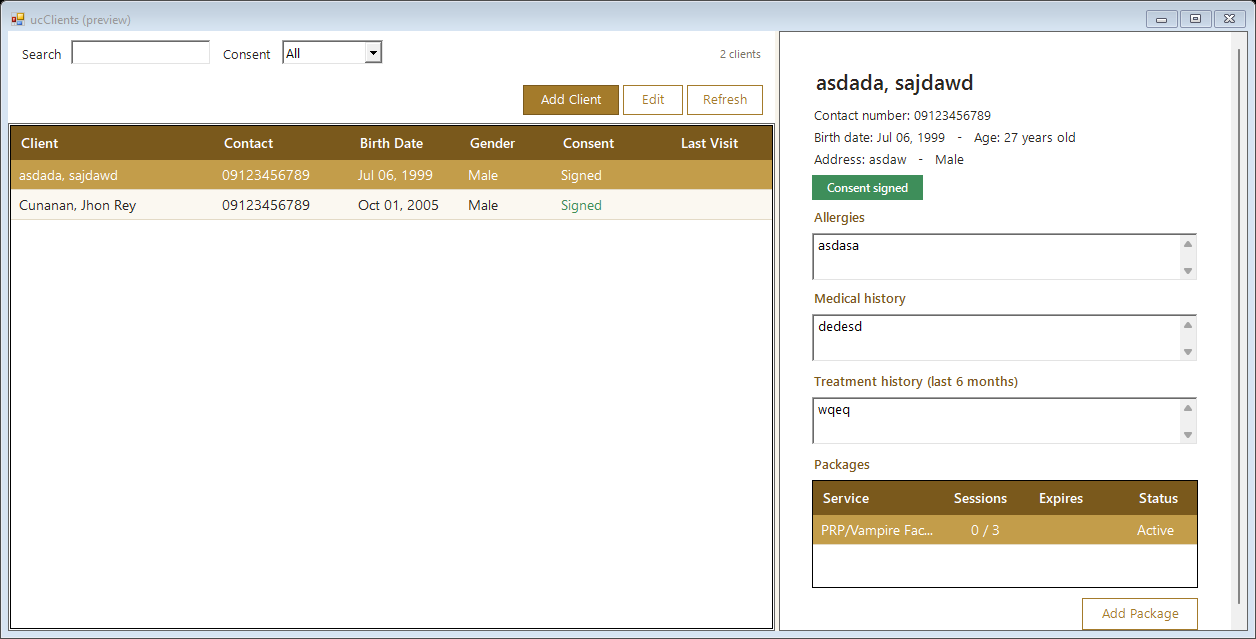
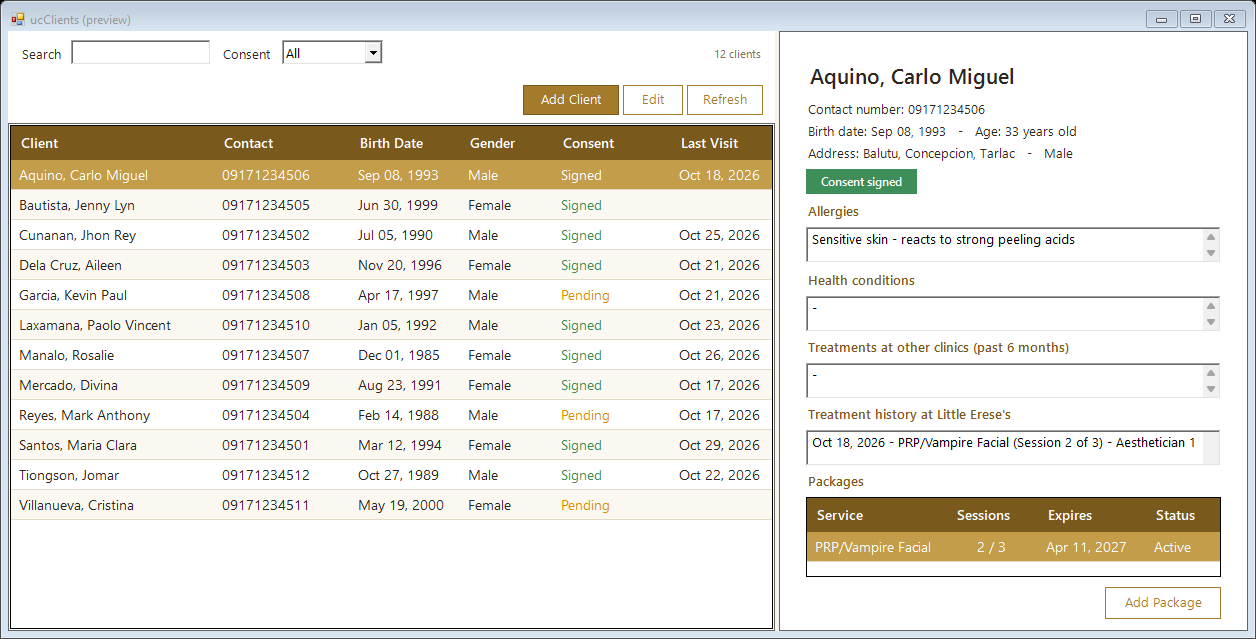
Prompt C1-3 Done

diff --git a/Controls/ucClients.Designer.cs b/Controls/ucClients.Designer.cs
@@ -70,6 +70,8 @@ namespace LittleEreseSystemV3.Controls
             this.txtDetailMedical = new System.Windows.Forms.TextBox();
             this.lblTreatmentTitle = new System.Windows.Forms.Label();
             this.txtDetailTreatment = new System.Windows.Forms.TextBox();
+            this.lblClinicHistoryTitle = new System.Windows.Forms.Label();
+            this.txtDetailClinicHistory = new System.Windows.Forms.TextBox();
             this.lblPackagesTitle = new System.Windows.Forms.Label();
             this.dgvPackages = new System.Windows.Forms.DataGridView();
             this.colPackageId = new System.Windows.Forms.DataGridViewTextBoxColumn();
@@ -441,7 +443,7 @@ namespace LittleEreseSystemV3.Controls
             this.pnlDetails.Dock = System.Windows.Forms.DockStyle.Fill;
             this.pnlDetails.Location = new System.Drawing.Point(0, 0);
             this.pnlDetails.Name = "pnlDetails";
-            this.pnlDetails.Padding = new System.Windows.Forms.Padding(16);
+            this.pnlDetails.Padding = new System.Windows.Forms.Padding(10, 10, 10, 6);
             this.pnlDetails.Size = new System.Drawing.Size(377, 640);
             this.pnlDetails.TabIndex = 0;
             // 
@@ -463,29 +465,33 @@ namespace LittleEreseSystemV3.Controls
             this.tlpDetails.Controls.Add(this.txtDetailMedical, 0, 8);
             this.tlpDetails.Controls.Add(this.lblTreatmentTitle, 0, 9);
             this.tlpDetails.Controls.Add(this.txtDetailTreatment, 0, 10);
-            this.tlpDetails.Controls.Add(this.lblPackagesTitle, 0, 11);
-            this.tlpDetails.Controls.Add(this.dgvPackages, 0, 12);
-            this.tlpDetails.Controls.Add(this.btnAddPackage, 0, 13);
+            this.tlpDetails.Controls.Add(this.lblClinicHistoryTitle, 0, 11);
+            this.tlpDetails.Controls.Add(this.txtDetailClinicHistory, 0, 12);
+            this.tlpDetails.Controls.Add(this.lblPackagesTitle, 0, 13);
+            this.tlpDetails.Controls.Add(this.dgvPackages, 0, 14);
+            this.tlpDetails.Controls.Add(this.btnAddPackage, 0, 15);
             this.tlpDetails.Dock = System.Windows.Forms.DockStyle.Top;
             this.tlpDetails.Location = new System.Drawing.Point(16, 16);
             this.tlpDetails.Name = "tlpDetails";
             this.tlpDetails.Padding = new System.Windows.Forms.Padding(16, 12, 16, 8);
-            this.tlpDetails.RowCount = 14;
+            this.tlpDetails.RowCount = 16;
             this.tlpDetails.RowStyles.Add(new System.Windows.Forms.RowStyle(System.Windows.Forms.SizeType.AutoSize));
             this.tlpDetails.RowStyles.Add(new System.Windows.Forms.RowStyle(System.Windows.Forms.SizeType.Absolute, 22F));
             this.tlpDetails.RowStyles.Add(new System.Windows.Forms.RowStyle(System.Windows.Forms.SizeType.Absolute, 22F));
             this.tlpDetails.RowStyles.Add(new System.Windows.Forms.RowStyle(System.Windows.Forms.SizeType.Absolute, 22F));
             this.tlpDetails.RowStyles.Add(new System.Windows.Forms.RowStyle(System.Windows.Forms.SizeType.Absolute, 29F));
             this.tlpDetails.RowStyles.Add(new System.Windows.Forms.RowStyle(System.Windows.Forms.SizeType.AutoSize));
-            this.tlpDetails.RowStyles.Add(new System.Windows.Forms.RowStyle(System.Windows.Forms.SizeType.Absolute, 48F));
+            this.tlpDetails.RowStyles.Add(new System.Windows.Forms.RowStyle(System.Windows.Forms.SizeType.Absolute, 36F));
             this.tlpDetails.RowStyles.Add(new System.Windows.Forms.RowStyle(System.Windows.Forms.SizeType.AutoSize));
-            this.tlpDetails.RowStyles.Add(new System.Windows.Forms.RowStyle(System.Windows.Forms.SizeType.Absolute, 48F));
+            this.tlpDetails.RowStyles.Add(new System.Windows.Forms.RowStyle(System.Windows.Forms.SizeType.Absolute, 36F));
             this.tlpDetails.RowStyles.Add(new System.Windows.Forms.RowStyle(System.Windows.Forms.SizeType.AutoSize));
-            this.tlpDetails.RowStyles.Add(new System.Windows.Forms.RowStyle(System.Windows.Forms.SizeType.Absolute, 48F));
+            this.tlpDetails.RowStyles.Add(new System.Windows.Forms.RowStyle(System.Windows.Forms.SizeType.Absolute, 36F));
             this.tlpDetails.RowStyles.Add(new System.Windows.Forms.RowStyle(System.Windows.Forms.SizeType.AutoSize));
-            this.tlpDetails.RowStyles.Add(new System.Windows.Forms.RowStyle(System.Windows.Forms.SizeType.Absolute, 108F));
+            this.tlpDetails.RowStyles.Add(new System.Windows.Forms.RowStyle(System.Windows.Forms.SizeType.Absolute, 36F));
+            this.tlpDetails.RowStyles.Add(new System.Windows.Forms.RowStyle(System.Windows.Forms.SizeType.AutoSize));
+            this.tlpDetails.RowStyles.Add(new System.Windows.Forms.RowStyle(System.Windows.Forms.SizeType.Absolute, 80F));
             this.tlpDetails.RowStyles.Add(new System.Windows.Forms.RowStyle(System.Windows.Forms.SizeType.Absolute, 44F));
-            this.tlpDetails.Size = new System.Drawing.Size(345, 563);
+            this.tlpDetails.Size = new System.Drawing.Size(345, 596);
             this.tlpDetails.TabIndex = 0;
             // 
             // lblDetailName
@@ -576,7 +582,7 @@ namespace LittleEreseSystemV3.Controls
             this.txtDetailAllergies.Name = "txtDetailAllergies";
             this.txtDetailAllergies.ReadOnly = true;
             this.txtDetailAllergies.ScrollBars = System.Windows.Forms.ScrollBars.Vertical;
-            this.txtDetailAllergies.Size = new System.Drawing.Size(313, 48);
+            this.txtDetailAllergies.Size = new System.Drawing.Size(313, 38);
             this.txtDetailAllergies.TabIndex = 6;
             // 
             // lblMedicalTitle
@@ -587,9 +593,9 @@ namespace LittleEreseSystemV3.Controls
             this.lblMedicalTitle.Location = new System.Drawing.Point(16, 228);
             this.lblMedicalTitle.Margin = new System.Windows.Forms.Padding(0, 8, 0, 2);
             this.lblMedicalTitle.Name = "lblMedicalTitle";
-            this.lblMedicalTitle.Size = new System.Drawing.Size(107, 19);
+            this.lblMedicalTitle.Size = new System.Drawing.Size(113, 19);
             this.lblMedicalTitle.TabIndex = 7;
-            this.lblMedicalTitle.Text = "Medical history";
+            this.lblMedicalTitle.Text = "Health conditions";
             // 
             // txtDetailMedical
             // 
@@ -602,7 +608,7 @@ namespace LittleEreseSystemV3.Controls
             this.txtDetailMedical.Name = "txtDetailMedical";
             this.txtDetailMedical.ReadOnly = true;
             this.txtDetailMedical.ScrollBars = System.Windows.Forms.ScrollBars.Vertical;
-            this.txtDetailMedical.Size = new System.Drawing.Size(313, 48);
+            this.txtDetailMedical.Size = new System.Drawing.Size(313, 38);
             this.txtDetailMedical.TabIndex = 8;
             // 
             // lblTreatmentTitle
@@ -611,11 +617,11 @@ namespace LittleEreseSystemV3.Controls
             this.lblTreatmentTitle.Font = new System.Drawing.Font("Segoe UI Semibold", 10F, System.Drawing.FontStyle.Regular, System.Drawing.GraphicsUnit.Point, ((byte)(0)));
             this.lblTreatmentTitle.ForeColor = System.Drawing.Color.FromArgb(((int)(((byte)(122)))), ((int)(((byte)(89)))), ((int)(((byte)(28)))));
             this.lblTreatmentTitle.Location = new System.Drawing.Point(16, 305);
-            this.lblTreatmentTitle.Margin = new System.Windows.Forms.Padding(0, 10, 0, 2);
+            this.lblTreatmentTitle.Margin = new System.Windows.Forms.Padding(0, 6, 0, 2);
             this.lblTreatmentTitle.Name = "lblTreatmentTitle";
-            this.lblTreatmentTitle.Size = new System.Drawing.Size(223, 19);
+            this.lblTreatmentTitle.Size = new System.Drawing.Size(277, 19);
             this.lblTreatmentTitle.TabIndex = 9;
-            this.lblTreatmentTitle.Text = "Treatment history (last 6 months)";
+            this.lblTreatmentTitle.Text = "Treatments at other clinics (past 6 months)";
             // 
             // txtDetailTreatment
             // 
@@ -628,19 +634,45 @@ namespace LittleEreseSystemV3.Controls
             this.txtDetailTreatment.Name = "txtDetailTreatment";
             this.txtDetailTreatment.ReadOnly = true;
             this.txtDetailTreatment.ScrollBars = System.Windows.Forms.ScrollBars.Vertical;
-            this.txtDetailTreatment.Size = new System.Drawing.Size(313, 48);
+            this.txtDetailTreatment.Size = new System.Drawing.Size(313, 38);
             this.txtDetailTreatment.TabIndex = 10;
+            // 
+            // lblClinicHistoryTitle
+            // 
+            this.lblClinicHistoryTitle.AutoSize = true;
+            this.lblClinicHistoryTitle.Font = new System.Drawing.Font("Segoe UI Semibold", 10F, System.Drawing.FontStyle.Regular, System.Drawing.GraphicsUnit.Point, ((byte)(0)));
+            this.lblClinicHistoryTitle.ForeColor = System.Drawing.Color.FromArgb(((int)(((byte)(122)))), ((int)(((byte)(89)))), ((int)(((byte)(28)))));
+            this.lblClinicHistoryTitle.Location = new System.Drawing.Point(16, 382);
+            this.lblClinicHistoryTitle.Margin = new System.Windows.Forms.Padding(0, 6, 0, 2);
+            this.lblClinicHistoryTitle.Name = "lblClinicHistoryTitle";
+            this.lblClinicHistoryTitle.Size = new System.Drawing.Size(250, 19);
+            this.lblClinicHistoryTitle.TabIndex = 11;
+            this.lblClinicHistoryTitle.Text = "Treatment history at Little Erese\'s";
+            // 
+            // txtDetailClinicHistory
+            // 
+            this.txtDetailClinicHistory.BackColor = System.Drawing.Color.FromArgb(((int)(((byte)(255)))), ((int)(((byte)(255)))), ((int)(((byte)(255)))));
+            this.txtDetailClinicHistory.Dock = System.Windows.Forms.DockStyle.Fill;
+            this.txtDetailClinicHistory.Font = new System.Drawing.Font("Segoe UI", 10F, System.Drawing.FontStyle.Regular, System.Drawing.GraphicsUnit.Point, ((byte)(0)));
+            this.txtDetailClinicHistory.Location = new System.Drawing.Point(16, 403);
+            this.txtDetailClinicHistory.Margin = new System.Windows.Forms.Padding(0);
+            this.txtDetailClinicHistory.Multiline = true;
+            this.txtDetailClinicHistory.Name = "txtDetailClinicHistory";
+            this.txtDetailClinicHistory.ReadOnly = true;
+            this.txtDetailClinicHistory.ScrollBars = System.Windows.Forms.ScrollBars.Vertical;
+            this.txtDetailClinicHistory.Size = new System.Drawing.Size(313, 38);
+            this.txtDetailClinicHistory.TabIndex = 12;
             // 
             // lblPackagesTitle
             // 
             this.lblPackagesTitle.AutoSize = true;
             this.lblPackagesTitle.Font = new System.Drawing.Font("Segoe UI Semibold", 10F, System.Drawing.FontStyle.Regular, System.Drawing.GraphicsUnit.Point, ((byte)(0)));
             this.lblPackagesTitle.ForeColor = System.Drawing.Color.FromArgb(((int)(((byte)(122)))), ((int)(((byte)(89)))), ((int)(((byte)(28)))));
-            this.lblPackagesTitle.Location = new System.Drawing.Point(16, 382);
-            this.lblPackagesTitle.Margin = new System.Windows.Forms.Padding(0, 10, 0, 2);
+            this.lblPackagesTitle.Location = new System.Drawing.Point(16, 435);
+            this.lblPackagesTitle.Margin = new System.Windows.Forms.Padding(0, 6, 0, 2);
             this.lblPackagesTitle.Name = "lblPackagesTitle";
             this.lblPackagesTitle.Size = new System.Drawing.Size(71, 19);
-            this.lblPackagesTitle.TabIndex = 11;
+            this.lblPackagesTitle.TabIndex = 13;
             this.lblPackagesTitle.Text = "Packages";
             // 
             // dgvPackages
@@ -682,7 +714,7 @@ namespace LittleEreseSystemV3.Controls
             this.dgvPackages.Dock = System.Windows.Forms.DockStyle.Fill;
             this.dgvPackages.EnableHeadersVisualStyles = false;
             this.dgvPackages.GridColor = System.Drawing.Color.FromArgb(((int)(((byte)(227)))), ((int)(((byte)(218)))), ((int)(((byte)(198)))));
-            this.dgvPackages.Location = new System.Drawing.Point(16, 403);
+            this.dgvPackages.Location = new System.Drawing.Point(16, 456);
             this.dgvPackages.Margin = new System.Windows.Forms.Padding(0);
             this.dgvPackages.MultiSelect = false;
             this.dgvPackages.Name = "dgvPackages";
@@ -690,8 +722,8 @@ namespace LittleEreseSystemV3.Controls
             this.dgvPackages.RowHeadersVisible = false;
             this.dgvPackages.RowTemplate.Height = 26;
             this.dgvPackages.SelectionMode = System.Windows.Forms.DataGridViewSelectionMode.FullRowSelect;
-            this.dgvPackages.Size = new System.Drawing.Size(313, 108);
-            this.dgvPackages.TabIndex = 12;
+            this.dgvPackages.Size = new System.Drawing.Size(313, 80);
+            this.dgvPackages.TabIndex = 14;
             this.dgvPackages.CellFormatting += new System.Windows.Forms.DataGridViewCellFormattingEventHandler(this.dgvPackages_CellFormatting);
             // 
             // colPackageId
@@ -756,7 +788,7 @@ namespace LittleEreseSystemV3.Controls
             this.btnAddPackage.FlatStyle = System.Windows.Forms.FlatStyle.Flat;
             this.btnAddPackage.Font = new System.Drawing.Font("Segoe UI", 10F, System.Drawing.FontStyle.Regular, System.Drawing.GraphicsUnit.Point, ((byte)(0)));
             this.btnAddPackage.ForeColor = System.Drawing.Color.FromArgb(((int)(((byte)(164)))), ((int)(((byte)(123)))), ((int)(((byte)(43)))));
-            this.btnAddPackage.Location = new System.Drawing.Point(205, 519);
+            this.btnAddPackage.Location = new System.Drawing.Point(205, 544);
             this.btnAddPackage.Margin = new System.Windows.Forms.Padding(8, 8, 0, 0);
             this.btnAddPackage.Name = "btnAddPackage";
             this.btnAddPackage.Size = new System.Drawing.Size(116, 32);
@@ -832,6 +864,8 @@ namespace LittleEreseSystemV3.Controls
         private System.Windows.Forms.TextBox txtDetailMedical;
         private System.Windows.Forms.Label lblTreatmentTitle;
         private System.Windows.Forms.TextBox txtDetailTreatment;
+        private System.Windows.Forms.Label lblClinicHistoryTitle;
+        private System.Windows.Forms.TextBox txtDetailClinicHistory;
         private System.Windows.Forms.Label lblPackagesTitle;
         private System.Windows.Forms.DataGridView dgvPackages;
         private System.Windows.Forms.DataGridViewTextBoxColumn colPackageId;

diff --git a/Controls/ucClients.cs b/Controls/ucClients.cs
@@ -1,6 +1,7 @@
 using System;
 using System.Data;
 using System.Drawing;
+using System.Text;
 using System.Windows.Forms;
 using LittleEreseSystemV3.Data;
 using LittleEreseSystemV3.Forms;
@@ -158,15 +159,37 @@ namespace LittleEreseSystemV3.Controls
             lblDetailAddress.Text = "Address: " + address +
                 (string.IsNullOrWhiteSpace(gender) ? string.Empty : "   -   " + gender);
 
-            // Green badge when the signed paper form is filed, red while it is still missing.
+            // Green badge when the signed paper form is filed, amber while it is still missing.
+            // Red is reserved for real errors, so a missing form never paints the card red.
             bool signed = Db.Get<bool>(row["consent_status"]);
             lblDetailConsent.Text = signed ? "Consent signed" : "Consent form not signed";
-            lblDetailConsent.BackColor = signed ? Theme.Success : Theme.Danger;
-            lblDetailConsent.ForeColor = Color.White;
+            lblDetailConsent.BackColor = signed ? Theme.Success : Theme.Warning;
+            lblDetailConsent.ForeColor = signed ? Color.White : Theme.TextDark;
 
             txtDetailAllergies.Text = Notes(Db.Get<string>(row["allergies"]));
-            txtDetailMedical.Text = Notes(Db.Get<string>(row["medical_history"]));
+
+            // The health box follows the paper form: the ticked checkboxes first, then the
+            // "other conditions" free text under them on its own line.
+            string healthText = ClientRepository.JoinHealthConditions(
+                ClientRepository.SplitHealthConditions(Db.Get<string>(row["health_conditions"])));
+            string otherText = Db.Get<string>(row["medical_history"]);
+            if (healthText.Length == 0 && string.IsNullOrWhiteSpace(otherText))
+            {
+                txtDetailMedical.Text = Notes(string.Empty);
+            }
+            else
+            {
+                string otherLine = string.IsNullOrWhiteSpace(otherText)
+                    ? string.Empty
+                    : "Other: " + otherText.Trim();
+                if (healthText.Length == 0) txtDetailMedical.Text = otherLine;
+                else if (otherLine.Length == 0) txtDetailMedical.Text = healthText;
+                else txtDetailMedical.Text = healthText + Environment.NewLine + otherLine;
+            }
+
             txtDetailTreatment.Text = Notes(Db.Get<string>(row["treatment_history"]));
+
+            txtDetailClinicHistory.Text = ClinicHistoryText(clientId);
 
             LoadPackages(clientId);
 
@@ -189,11 +212,48 @@ namespace LittleEreseSystemV3.Controls
             txtDetailAllergies.Text = string.Empty;
             txtDetailMedical.Text = string.Empty;
             txtDetailTreatment.Text = string.Empty;
+            txtDetailClinicHistory.Text = string.Empty;
 
             dgvPackages.DataSource = null;
 
             btnEdit.Enabled = false;
             btnAddPackage.Enabled = false;
+        }
+
+        /// <summary>The shop's own treatment history, one "date - service - staff" line per visit.</summary>
+        private static string ClinicHistoryText(int clientId)
+        {
+            DataTable history;
+            try
+            {
+                history = ClientRepository.GetClinicHistory(clientId);
+            }
+            catch (Exception ex)
+            {
+                Messages.DbError(ex);
+                return Notes(string.Empty);
+            }
+
+            if (history == null || history.Rows.Count == 0) return Notes(string.Empty);
+
+            StringBuilder text = new StringBuilder();
+            foreach (DataRow visit in history.Rows)
+            {
+                if (text.Length > 0) text.AppendLine();
+
+                DateTime visitDate = Db.Get<DateTime>(visit["visit_date"]);
+                text.Append(visitDate.ToString("MMM dd, yyyy"));
+                text.Append(" - ");
+                text.Append(Db.Get<string>(visit["service_name"]));
+
+                // A package line carries "Session 2 of 4"; a plain service has no session text.
+                string session = Db.Get<string>(visit["session_text"]);
+                if (!string.IsNullOrWhiteSpace(session)) text.Append(" (" + session + ")");
+
+                text.Append(" - " + Db.Get<string>(visit["staff_name"]));
+            }
+
+            return text.ToString();
         }
 
         private void LoadPackages(int clientId)

diff --git a/Forms/AppointmentForm.cs b/Forms/AppointmentForm.cs
@@ -588,6 +588,10 @@ namespace LittleEreseSystemV3.Forms
 
             List<string> alerts = new List<string>();
             if (!string.IsNullOrWhiteSpace(allergies)) alerts.Add("allergies: " + allergies.Trim());
+            // The paper-form checkboxes (health_conditions) belong to the same medical alert line.
+            string conditions = ClientRepository.JoinHealthConditions(
+                ClientRepository.SplitHealthConditions(Db.Get<string>(row["health_conditions"])));
+            if (conditions.Length > 0) alerts.Add("health conditions: " + conditions);
             if (!string.IsNullOrWhiteSpace(medical)) alerts.Add("medical history: " + medical.Trim());
 
             // The consent form is no longer part of the booking rules, so only the medical alerts

diff --git a/PROGRESS.md b/PROGRESS.md
@@ -2,6 +2,35 @@
 
 Update this file at the end of every task.
 
+- Step 72 (this task): the client card now shows the paper-form health data and the shop's own
+  treatment history, and the consent badge is never red.
+  - Controls\ucClients.Designer.cs (tlpDetails): lblMedicalTitle reads "Health conditions" (the box
+    holds the ticked checkboxes plus "Other: ..." on the next line); lblTreatmentTitle reads
+    "Treatments at other clinics (past 6 months)"; ONE new row after it - lblClinicHistoryTitle
+    "Treatment history at Little Erese's" and read-only multiline txtDetailClinicHistory (same style
+    as txtDetailTreatment, vertical scroll bars). The three notes boxes shrank 48 -> 36 px, the
+    section margins 10 -> 6, the packages grid 108 -> 80 px and pnlDetails padding 16 -> (10,10,10,6),
+    so the whole card fits the 640 px page without a scrollbar and the packages grid keeps room.
+    TabIndex 11/12 for the new pair, packages 13/14.
+  - Controls\ucClients.cs: txtDetailMedical = the ticked health conditions joined with ", ", then
+    "Other: " + medical_history on a new line when it has text (the Notes("-") text when both are
+    empty); txtDetailClinicHistory = one line per GetClinicHistory row,
+    "MMM dd, yyyy - Service (Session 2 of 4) - Staff name" (session part only for multi-session
+    services); ClearDetails empties the new box too. The consent badge is Theme.Success + white when
+    signed and Theme.Warning + Theme.TextDark when not (was Theme.Danger), so red is reserved for
+    real errors.
+  - Forms\AppointmentForm.cs ShowClientInfo: the alert line also lists the client's
+    health_conditions ("health conditions: ...") after the allergies; still no red text.
+  - No business rule changed (the health_conditions / treatment_history rule of step 70 already
+    covers this), so PROJECT_RULES.md was NOT edited. LittleEreseSystemV3.csproj was NOT edited.
+  - Checks: clean rebuild 0 errors / 0 warnings; DesignerAudit 22 files exit 0; --preview ucClients
+    looked at (round 1 fixed the vertical scrollbar by shrinking the boxes and margins, round 2 is
+    clean); screenshot regenerated; --smoketest 96 passed / 0 failed / 0 skipped; app started once,
+    stayed open, closed, no error.log.
+  - Only Controls\ucClients.cs painted a consent state in red; nothing else in Controls\ or Forms\
+    uses a danger colour for consent (Theme.Danger is now only the Cancel / Archive / Restore style
+    buttons and the Cancelled / Expired status colours).
+
 - Step 71 (this task): the new / edit client dialog now follows the paper intake form.
   - Forms\ClientEditForm.Designer.cs: new label lblHealth ("Health conditions (tick all that
     apply)") and CheckedListBox clbHealth (MultiColumn, ColumnWidth 170, CheckOnClick, 3 columns,
